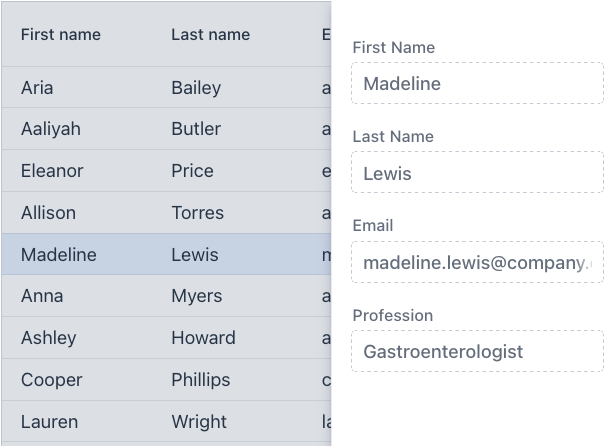
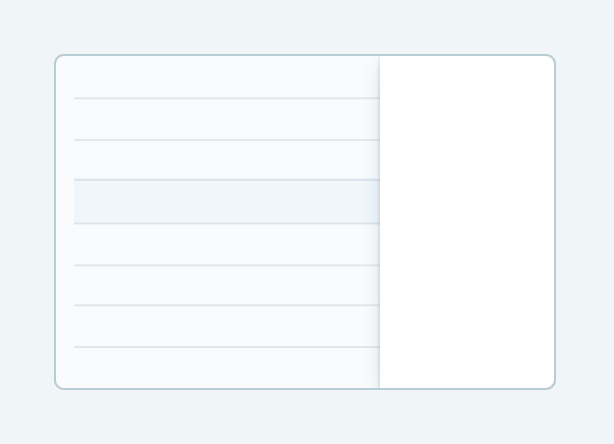
docs: mdl docs improvements (#4327)
* Changed the MDL thumbnail.

* Added admonition about modality limitation (https://github.com/vaadin/web-components/issues/9111)

* Added comments to the main examples and adjusted the Java snippet tags.

* Restructured and rewrote the page a bit.

* align code comments

---------

diff --git a/frontend/demo/component/master-detail-layout/react/master-detail-layout-basic.tsx b/frontend/demo/component/master-detail-layout/react/master-detail-layout-basic.tsx
@@ -21,6 +21,8 @@ function Example() {
   return (
     <SplitLayout style={{ height: '100%' }}>
       {/* tag::snippet[] */}
+      {/* The master area's size is flexible, and will shrink down to 450px,
+          below which the fixed-size detail area will be rendered as an overlay: */}
       <MasterDetailLayout masterMinSize="450px" detailSize="250px">
         <MasterDetailLayout.Master>
           <PersonList
@@ -32,6 +34,8 @@ function Example() {
           />
         </MasterDetailLayout.Master>
         <MasterDetailLayout.Detail>
+          {/* The detail area is revealed when it's populated with a component,
+              and hidden when the component is removed: */}
           {selectedPerson.value ? (
             <PersonDetail
               person={selectedPerson.value}

diff --git a/src/main/java/com/vaadin/demo/component/masterdetaillayout/MasterDetailLayoutBasic.java b/src/main/java/com/vaadin/demo/component/masterdetaillayout/MasterDetailLayoutBasic.java
@@ -13,14 +13,21 @@ public class MasterDetailLayoutBasic extends Div {
     public MasterDetailLayoutBasic() {
         // tag::snippet[]
         MasterDetailLayout layout = new MasterDetailLayout();
-        layout.setMasterMinSize("600px");
-        layout.setDetailSize("300px");
+        /* Sets the minimum size of the flexible master area to 450px,
+           below which the detail area will be rendered as an overlay:*/
+        layout.setMasterMinSize("450px");
+        /* Sets the detail area size to a static size: */
+        layout.setDetailSize("250px");
+        // end::snippet[]
 
         PersonList personList = new PersonList(DataService.getPeople());
         layout.setMaster(personList);
 
         PersonDetail personDetail = new PersonDetail();
 
+        // tag::snippet[]
+        /* The detail area is revealed when it's populated with a component,
+         * and hidden when the component is removed: */
         personList.getGrid().asSingleSelect().addValueChangeListener(event -> {
             Person selectedPerson = event.getValue();
             if (selectedPerson != null) {
